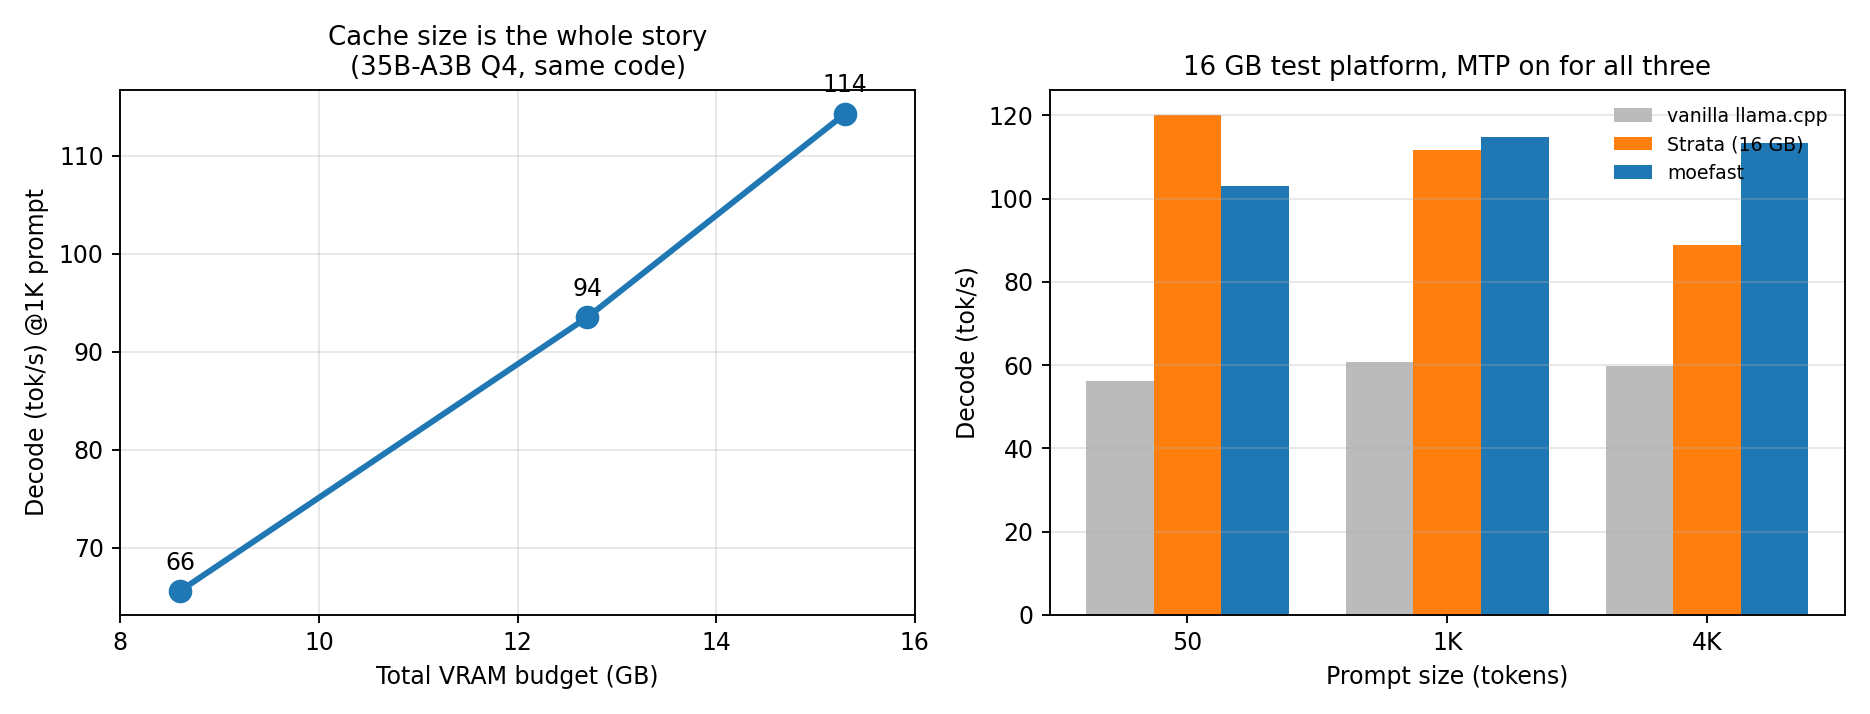
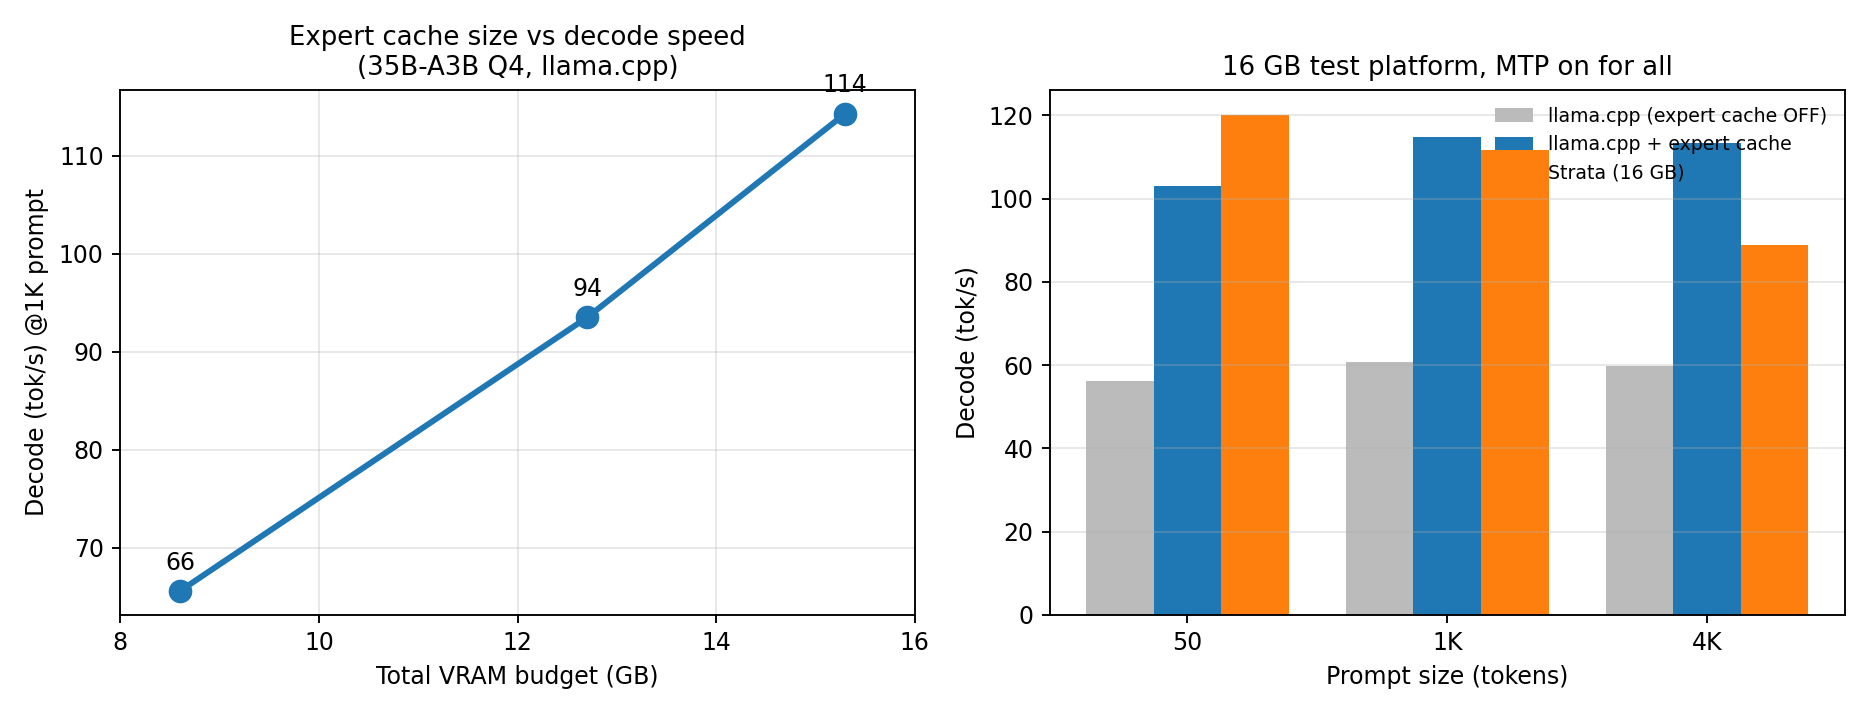
docs: 0.2 README 全新重写（启动器定位）+ 换新对比图

diff --git a/README.md b/README.md
@@ -1,84 +1,100 @@
-# moefast — one command to run a big MoE model on a small-VRAM GPU
+# moefast
 
-`moefast` is a **launcher**, not an inference engine. It measures your machine, reads the model's
-GGUF metadata, works out the parameters llama.cpp needs, writes them to a config file you can edit,
-and starts `llama-server`.
+**One command to run a big MoE model on a small-VRAM GPU.**
 
-**It contains no patches and needs no fork.** Everything that makes a 35B-class MoE run on a 16 GB
-card — keeping the expert weights in host RAM, caching the hot experts in VRAM, computing the cold
-ones on the CPU — is **llama.cpp's own work** (upstream PRs **#29887 / #30112**, `--moe-cache-mib`).
-`moefast` only decides the numbers and checks that they make sense.
+`moefast` is a launcher. It measures your machine, reads the model's GGUF metadata, computes the
+parameters llama.cpp needs, saves them to a config file you can edit, and starts `llama-server`.
+
+It contains **no patches, no fork and no inference code**. The expert cache that lets a 35B-class MoE
+run on a 16 GB card is llama.cpp's own (`--moe-cache-mib`, upstream PRs #29887 / #30112). `moefast`
+only decides the numbers and checks that they make sense.
+
+```bash
+git clone https://github.com/conlododo/moefast && cd moefast
+./install.sh
+./bin/moefast run /path/to/model.gguf
+```
 
 ---
 
 ## Why this exists
 
-llama.cpp already has the expert cache, but the user has to discover it and size it by hand:
+llama.cpp has the expert cache, but three things are left to the user:
 
-- `--moe-cache-mib` **defaults to 0** (cache disabled) — a 35B MoE then runs at roughly half speed;
-- `--fit` auto-tunes `n_gpu_layers` / `n_ctx` / `tensor_split`, but **not the expert cache**;
-- if the cache is smaller than `top_k × layers × expert_bytes`, layers silently stop using it.
+| Problem | Consequence |
+|---|---|
+| `--moe-cache-mib` defaults to **0** (disabled) | a 35B MoE runs at roughly **half speed** |
+| `--fit` auto-tunes `n_gpu_layers` / `n_ctx` / `tensor_split`, but **not** the expert cache | "fit" looks like it configured everything, but the cache is still off |
+| if the cache is smaller than `top_k × layers × bytes_per_expert`, layers silently stop using it | you think the cache is on, it isn't |
 
-`moefast` fills exactly that gap: pick the numbers for your card, keep them in a file, and refuse to
-start when the file and the model no longer match.
+`moefast` fixes exactly that: it picks the numbers for your card, stores them in a file next to the
+model, and refuses to start when the file and the model no longer match.
 
-## What it does and does not do
+## What it does / does not do
 
 | Does | Does not |
 |---|---|
-| Probe VRAM (free), RAM, GPU name | Change kernels or the scheduler |
-| Read GGUF metadata (arch, layers, experts, top-k, bytes/expert) | Provide faster inference than llama.cpp |
-| Compute `--moe-cache-mib`, `ctx`, `-b/-ub`, `-ngl`, `-ot exps=CPU` | Ship a patched llama.cpp |
-| Write/validate `<model>.moefast.json` (hand-editable) | Do any offline profiling or heat tables |
-| Refuse a config written for a different model | Touch your weights |
+| Probe free VRAM, total VRAM, RAM, GPU name | Modify llama.cpp, its kernels or its scheduler |
+| Read GGUF metadata: arch, layers, experts, top-k, bytes per expert | Make inference faster than llama.cpp with the same cache size |
+| Compute `--moe-cache-mib`, `-c`, `-b/-ub`, `-ngl`, `-ot exps=CPU` | Do offline profiling, heat tables or expert pre-seeding |
+| Write / validate `<model>.moefast.json` (hand-editable) | Touch or convert your model weights |
+| Refuse a config that belongs to a different model | Require a specific llama.cpp branch |
 
-Works for **any model llama.cpp can load**: MoE models get the expert cache, dense models just get
-sensible `-ngl/ctx/batch` values.
+**Works for any model llama.cpp can load.** MoE models get the expert cache; dense models simply get
+sensible `-ngl` / `ctx` / batch values and no cache flags.
 
----
+## Requirements
+
+- **A stock `llama-server`** (build llama.cpp normally, e.g. `cmake -B build -DGGML_CUDA=ON && cmake --build build -j`)
+- Python ≥ 3.10
+- `gguf-py` from the same llama.cpp checkout (`MOEFAST_GGUF_PY=/path/to/llama.cpp/gguf-py`)
 
 ## Install
 
 ```bash
-git clone https://github.com/conlododo/moefast
-cd moefast
-./install.sh                  # checks python, gguf-py and llama-server; installs ./bin/moefast
+./install.sh
 ```
 
-Requirements: **stock llama.cpp built with `llama-server`** (CUDA or whatever backend you use),
-Python ≥ 3.10, and `gguf-py` from the same llama.cpp checkout.
+Checks python, `gguf-py` and `llama-server`, then writes `./bin/moefast`.
+It does **not** build llama.cpp; if `llama-server` is missing it prints how to build one.
 
-`install.sh` does not build llama.cpp — it checks that a working `llama-server` exists and tells you
-how to build one if not.
-
-## Use
+## Usage
 
 ```bash
+# first run: probe → compute → write config → start server
 ./bin/moefast run /path/to/model.gguf
+
+# see what it would do, without starting anything
+./bin/moefast run /path/to/model.gguf --print-only
+
+# just the probe + computed parameters, as JSON
+./bin/moefast show /path/to/model.gguf
 ```
 
-First run: probes, computes, writes `<model>.moefast.json`, starts the server.
-Later runs: loads the config, validates it, starts the server.
+Typical output:
 
 ```
 moefast: arch=qwen35moe layers=40 experts=256 top-8
 moefast: gpu=RTX 5060 Ti vram=16311MiB ram=30GiB
 moefast: moe cache=7200MiB (~318 slots/layer, min 244) ctx=8192
-moefast: llama-server -m model.gguf -ngl 99 -c 8192 -b 2048 -ub 2048 ... -ot exps=CPU --moe-cache-mib 7200
+moefast: llama-server -m model.gguf -ngl 99 -c 8192 -b 2048 -ub 2048 \
+         --parallel 1 --port 8080 --host 127.0.0.1 -ot exps=CPU --moe-cache-mib 7200
 ```
 
-Useful flags:
+### Flags
 
-| Flag | Meaning |
-|---|---|
-| `--print-only` | print the command, do not start the server |
-| `--server /path/to/llama-server` | which binary to use (default: `$PATH`) |
-| `--ctx 16384` | context to aim for (clamped to the model's training context) |
-| `--parallel 2` | number of server slots |
-| `--mtp 3` | enable MTP speculative decoding if the model has an MTP head |
-| `--reserve 2048` | VRAM to keep free for the desktop/other apps (MiB) |
+| Flag | Default | Meaning |
+|---|---|---|
+| `--server PATH` | `llama-server` from `$PATH` | which binary to launch |
+| `--config PATH` | `<model>.moefast.json` | where the config lives |
+| `--ctx N` | 8192 | context to aim for (clamped to the model's training context) |
+| `--parallel N` | 1 | server slots |
+| `--reserve MiB` | 0 | extra VRAM to keep free (on top of the automatic reserve) |
+| `--mtp N` | 0 | enable MTP speculative decoding (`--spec-type draft-mtp`), if the model has an MTP head |
+| `--port` / `--host` | 8080 / 127.0.0.1 | server bind |
+| `--print-only` | off | print the command, do not exec |
 
-`./bin/moefast show model.gguf` prints the probe + computed parameters as JSON and exits.
+Anything else is passed through to `llama-server` untouched.
 
 ## The config file
 
@@ -95,49 +111,69 @@ Written next to the model: `model.gguf` → `model.moefast.json`.
 }
 ```
 
-Edit `params` freely; the next run uses your values.
+Edit `params` freely — the next run uses your values. `model` and `machine` are used for validation.
 
-**Validation on startup:**
+### Validation on startup
 
 | Situation | Behaviour |
 |---|---|
-| config belongs to a **different model** (arch / layers / experts) | ✖ error, exit code 2, no server started |
-| **machine changed** (e.g. moved to a card with less VRAM) | ⚠ warning + writes `model.moefast.suggested-1.json` for you to rename/use; keeps running with the old values |
-| `moe_cache_mib` below the minimum (cache would be bypassed) | ✖ error with the minimum MiB |
+| config belongs to a **different model** (arch / layers / experts differ) | ✖ error, exit code 2, server not started |
+| **machine changed** (different card, or less VRAM than recorded) | ⚠ warning, writes `<model>.moefast.suggested-1.json` (rename it to use), keeps running with the old values |
+| `moe_cache_mib` below the minimum (cache would be bypassed) | ✖ error, prints the minimum MiB |
+| `ctx` above the model's training context | clamped, with a warning |
 
 ## How the numbers are computed
 
 ```
-cache_mib = min( free_vram − reserve − kv(ctx) − dense, expert_bytes_total )
 reserve   = max(700 MiB, 15 % of free VRAM, --reserve)
-min cache = top_k × n_layers × bytes_per_expert   (below this llama.cpp bypasses the cache)
+kv        = estimated from ctx and the model's head layout
+dense     = model file size − expert tensors
+cache     = min(free_vram − reserve − kv − dense, expert_bytes_total)
+min cache = top_k × n_layers × bytes_per_expert     # below this llama.cpp bypasses the cache
 ```
 
-`dense` is the model file size minus the expert tensors, so it adapts to any architecture.
-Nothing is baked in per model.
+`dense` and `bytes_per_expert` come from the file itself, so nothing is hard-coded per architecture.
+If `cache < min cache`, `moefast` says so and runs with the cache disabled rather than pretending.
 
-## Background: what the expert cache does
+## What the expert cache buys (background)
 
-llama.cpp keeps all expert weights in host memory (mmap'd, reclaimable) and caches the frequently
-used experts in whatever VRAM is left; missing experts are computed on the CPU. On a 16 GB card with
-a 35B-A3B MoE that means ~114 tok/s decode instead of ~60 tok/s — with the same binary. See the
-upstream PRs (#29887, #30112) for the implementation.
+llama.cpp keeps all expert weights in host RAM (mmap'd, reclaimable) and caches the frequently used
+experts in whatever VRAM is left; experts that miss are computed on the CPU. On one 16 GB card with
+Qwen3.6-35B-A3B (Q4, 18.3 GB of experts):
 
-Measured on our test rig (16 GB, Qwen3.6-35B-A3B Q4): **60.7 tok/s with the cache off → 114.8 tok/s
-with it on**; time-to-first-token drops from 1.26 s to 0.62 s at a 1K prompt.
+![decode speed vs VRAM budget, and with/without the expert cache](assets/bench.png)
+
+| | expert cache OFF | expert cache ON | Strata (16 GB) |
+|---|---:|---:|---:|
+| Decode @ 1K ctx | 60.7 tok/s | **114.8** | 111.7 |
+| Decode @ 4K ctx | 59.7 tok/s | **113.4** | 89.0 |
+| TTFT @ 1K prompt | 1.259 s | **0.615 s** | 0.723 s |
+
+These numbers describe **what the cache enables**, not a contribution of this tool. `moefast` is the
+thing that makes sure the cache is actually enabled, correctly sized, and remembered per model.
+
+## Troubleshooting
+
+| Symptom | Fix |
+|---|---|
+| `llama-server not found` | build llama.cpp, or `--server /path/to/llama-server`, or set `MOEFAST_LLAMA_SERVER` |
+| `gguf-py not found` | set `MOEFAST_GGUF_PY=/path/to/llama.cpp/gguf-py` |
+| `⚠ metadata says this is a MoE, but no *exps.weight tensors were found` | legacy per-expert GGUF layout; convert the model with a current `convert_hf_to_gguf.py` |
+| `⚠ fused gate_up_exps layout detected` | llama.cpp may not support the cache for this layout; the load error (if any) comes from llama.cpp |
+| Server dies with `MoE cache is too small…` | increase `moe_cache_mib` in the config, or let `moefast` recompute it (delete the config) |
+| Slower than expected | check the printed `moe cache=` line — if it is 0, the cache is off |
 
 ## Status
 
-- 0.2 is a rewrite: **launcher only, no patch, no fork**. The previous patched build (0.1) is
-  archived — it added auto-sizing and heat-table pre-seeding on top of the same upstream cache;
-  measurements showed the pre-seeding added little, and auto-sizing is now done by this launcher.
-- Tested on Linux + CUDA (RTX 5060 Ti 16 GB, RTX 4080 SUPER 32 GB) with qwen35moe (35B-A3B),
-  gpt-oss-20b and qwen4exp (125B). Dense models are handled too (no expert cache).
+0.2 is a rewrite. Earlier versions shipped a patched llama.cpp with auto-sizing and heat-table
+pre-seeding; measurements showed the pre-seeding added little, and auto-sizing is now done here. The
+patched build is archived — use stock llama.cpp plus this launcher.
+
+Tested on Linux/CUDA with qwen35moe (35B-A3B), gpt-oss-20b and qwen4exp (125B); dense models work too.
 
 ## Credits
 
-The expert cache is llama.cpp's work (PRs **#29887**, **#30112**). See
-[ACKNOWLEDGEMENTS.md](ACKNOWLEDGEMENTS.md).
+The MoE expert cache is llama.cpp's work (PRs #29887, #30112). See [ACKNOWLEDGEMENTS.md](ACKNOWLEDGEMENTS.md).
 
 ## License
 
